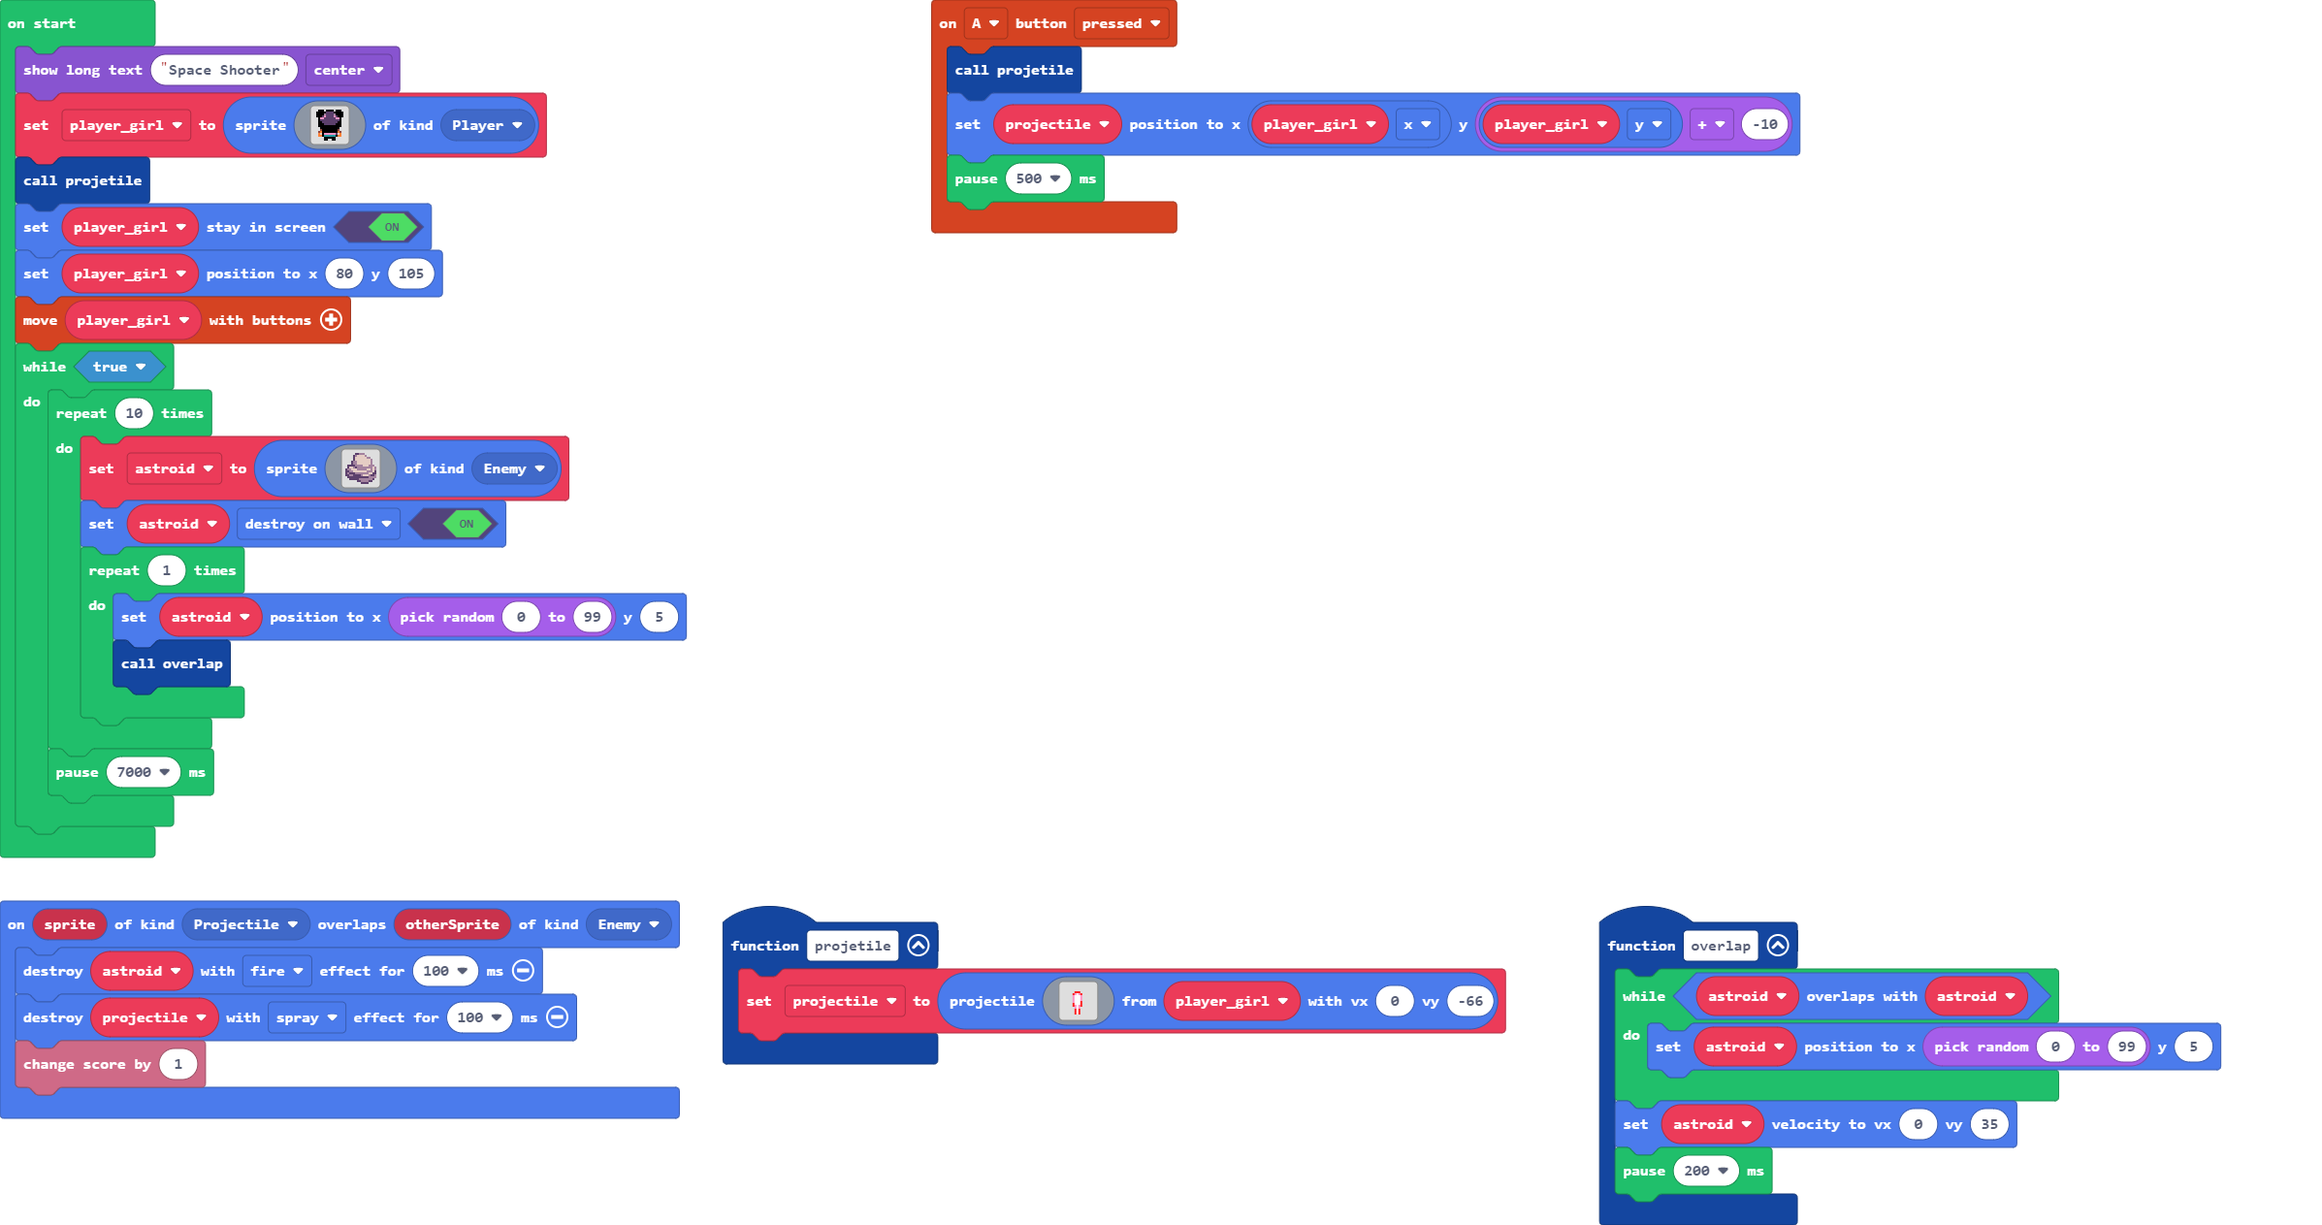
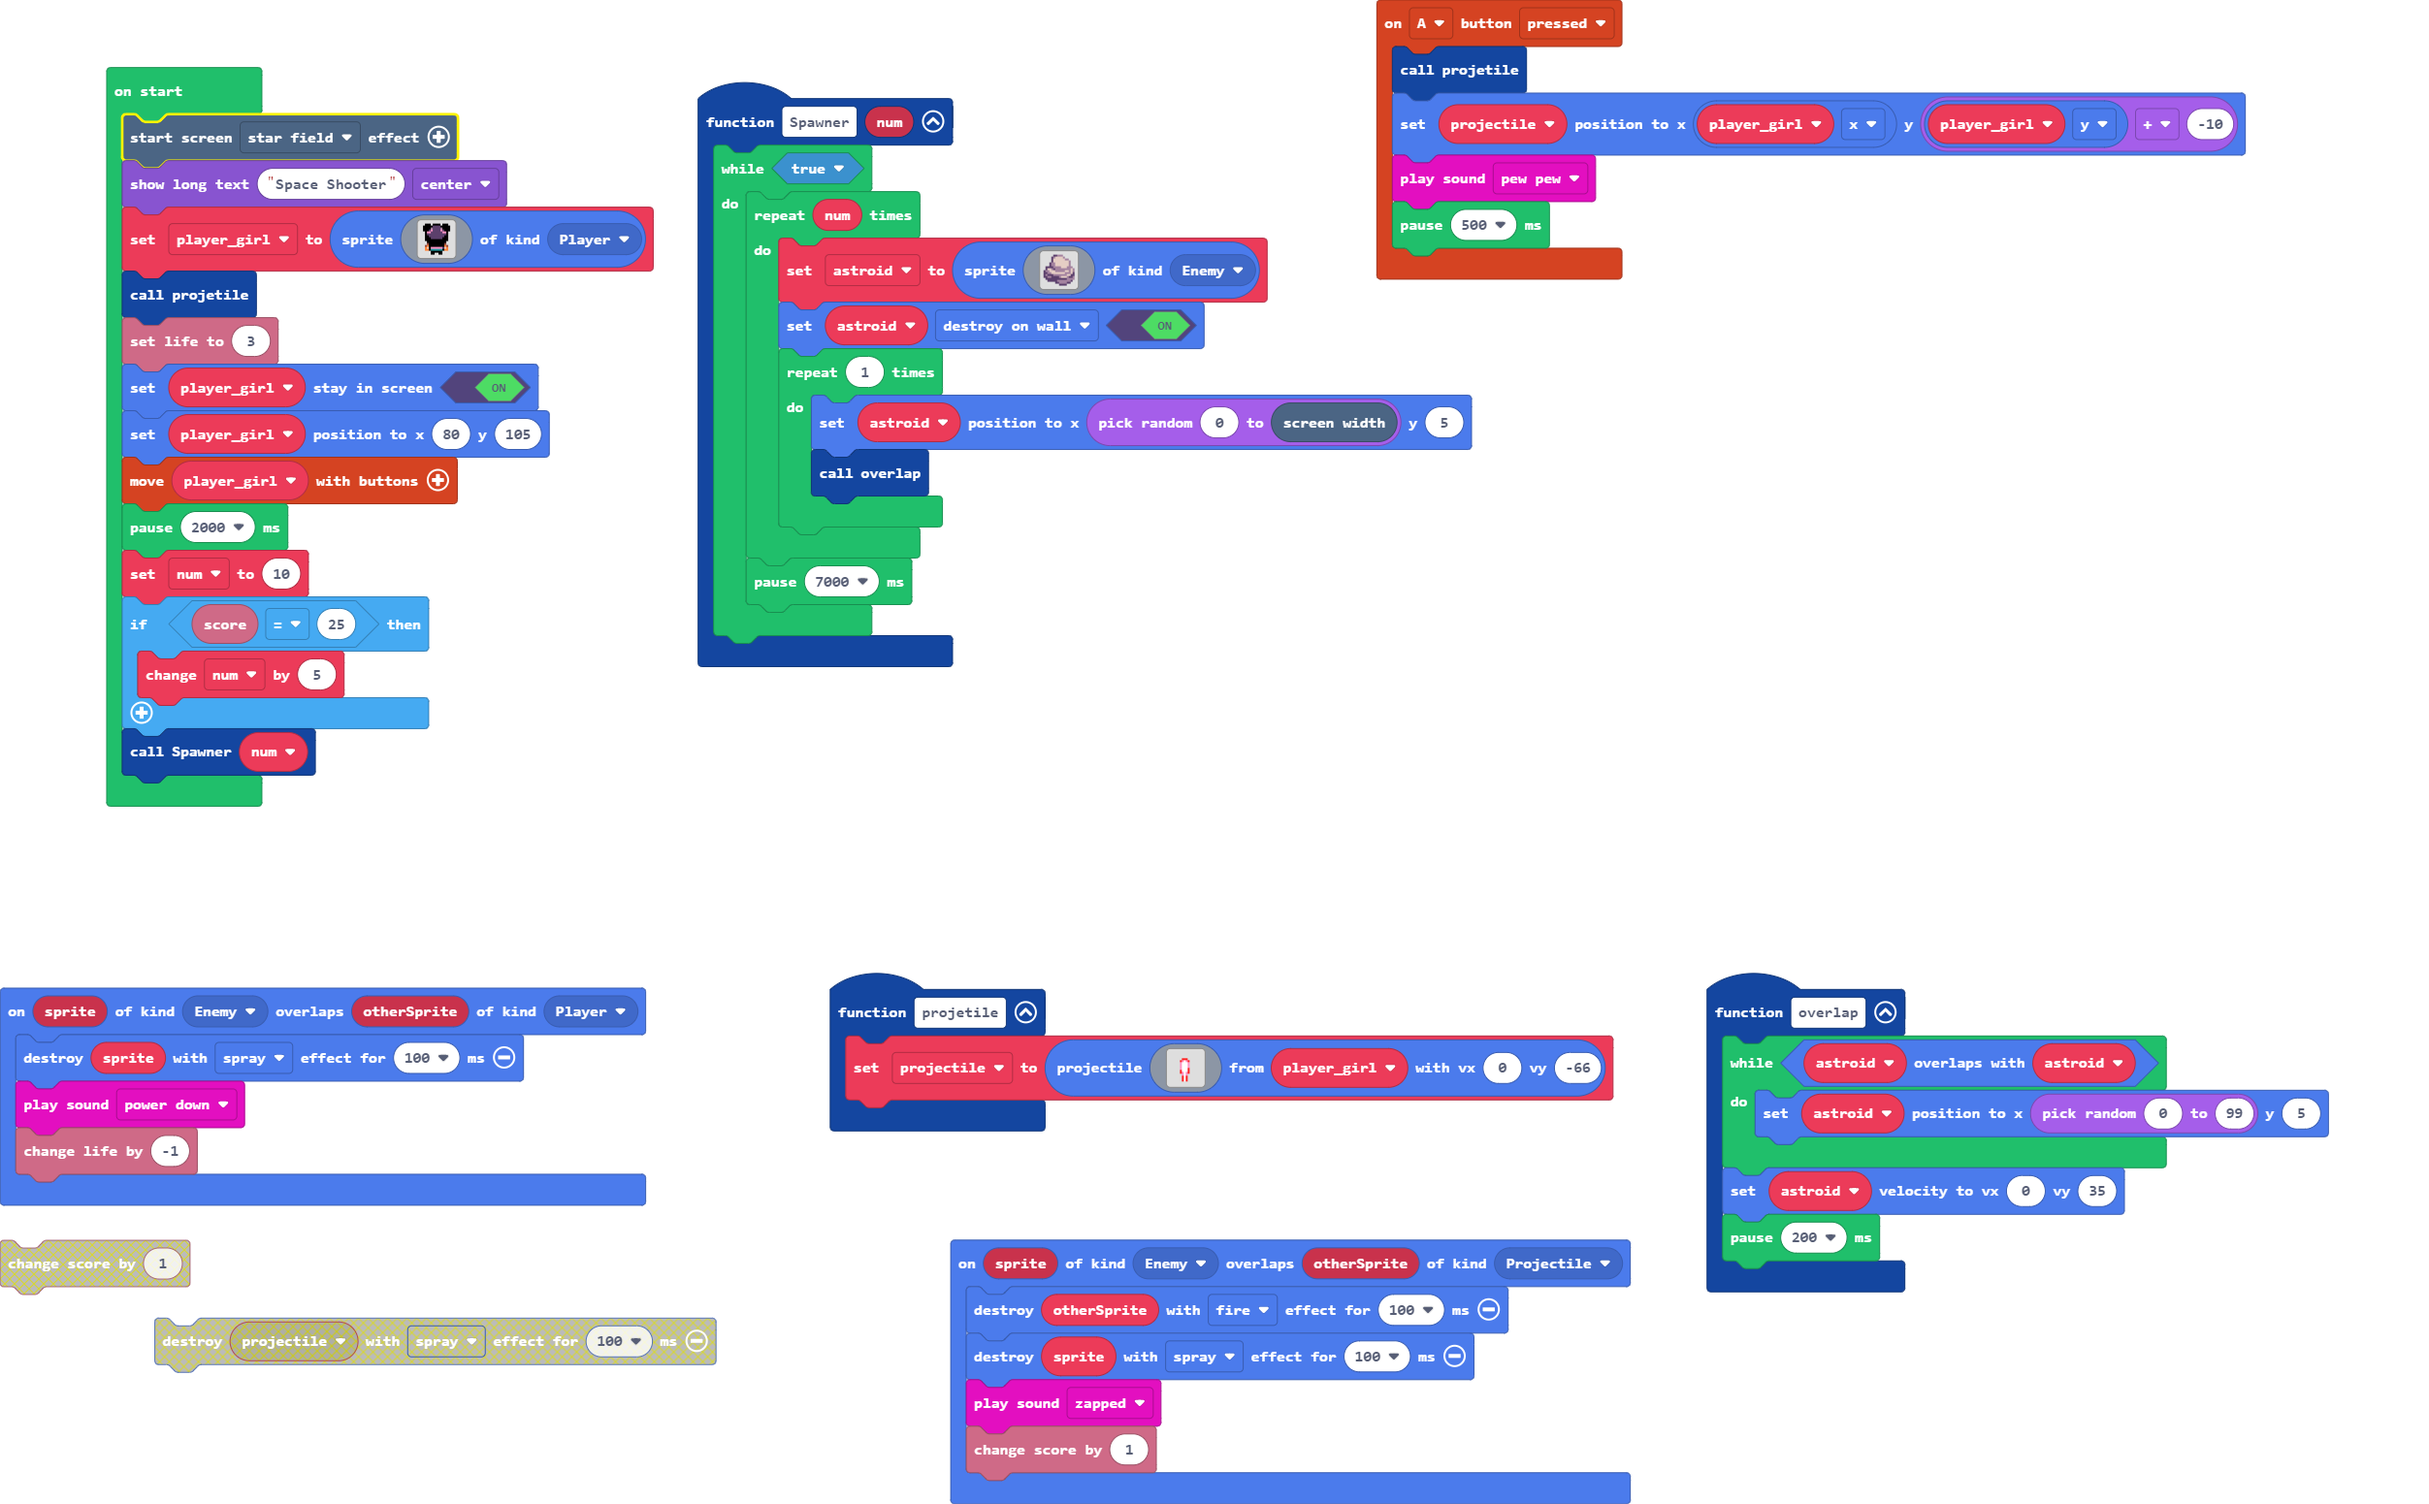
Update main.blocks, main.ts

diff --git a/main.ts b/main.ts
@@ -1,11 +1,36 @@
+function Spawner (num: number) {
+    while (true) {
+        for (let index = 0; index < num; index++) {
+            astroid = sprites.create(assets.image`asteroid`, SpriteKind.Enemy)
+            astroid.setFlag(SpriteFlag.DestroyOnWall, true)
+            for (let index = 0; index < 1; index++) {
+                astroid.setPosition(randint(0, scene.screenWidth()), 5)
+                overlap()
+            }
+        }
+        pause(7000)
+    }
+}
 controller.A.onEvent(ControllerButtonEvent.Pressed, function () {
     projetile()
     projectile.setPosition(player_girl.x, player_girl.y + -10)
+    music.pewPew.play()
     pause(500)
+})
+sprites.onOverlap(SpriteKind.Enemy, SpriteKind.Projectile, function (sprite, otherSprite) {
+    otherSprite.destroy(effects.fire, 100)
+    sprite.destroy(effects.spray, 100)
+    music.zapped.play()
+    info.changeScoreBy(1)
 })
 function projetile () {
     projectile = sprites.createProjectileFromSprite(assets.image`bullet`, player_girl, 0, -66)
 }
+sprites.onOverlap(SpriteKind.Enemy, SpriteKind.Player, function (sprite, otherSprite) {
+    sprite.destroy(effects.spray, 100)
+    music.powerDown.play()
+    info.changeLifeBy(-1)
+})
 function overlap () {
     while (astroid.overlapsWith(astroid)) {
         astroid.setPosition(randint(0, 99), 5)
@@ -13,28 +38,20 @@ function overlap () {
     astroid.setVelocity(0, 35)
     pause(200)
 }
-sprites.onOverlap(SpriteKind.Projectile, SpriteKind.Enemy, function (sprite, otherSprite) {
-    astroid.destroy(effects.fire, 100)
-    projectile.destroy(effects.spray, 100)
-    info.changeScoreBy(1)
-})
 let projectile: Sprite = null
 let astroid: Sprite = null
 let player_girl: Sprite = null
+effects.starField.startScreenEffect()
 game.showLongText("Space Shooter", DialogLayout.Center)
 player_girl = sprites.create(assets.image`girl`, SpriteKind.Player)
 projetile()
+info.setLife(3)
 player_girl.setStayInScreen(true)
 player_girl.setPosition(80, 105)
 controller.moveSprite(player_girl)
-while (true) {
-    for (let index = 0; index < 10; index++) {
-        astroid = sprites.create(assets.image`asteroid`, SpriteKind.Enemy)
-        astroid.setFlag(SpriteFlag.DestroyOnWall, true)
-        for (let index = 0; index < 1; index++) {
-            astroid.setPosition(randint(0, 99), 5)
-            overlap()
-        }
-    }
-    pause(7000)
+pause(2000)
+let num = 10
+if (info.score() == 25) {
+    num += 5
 }
+Spawner(num)
